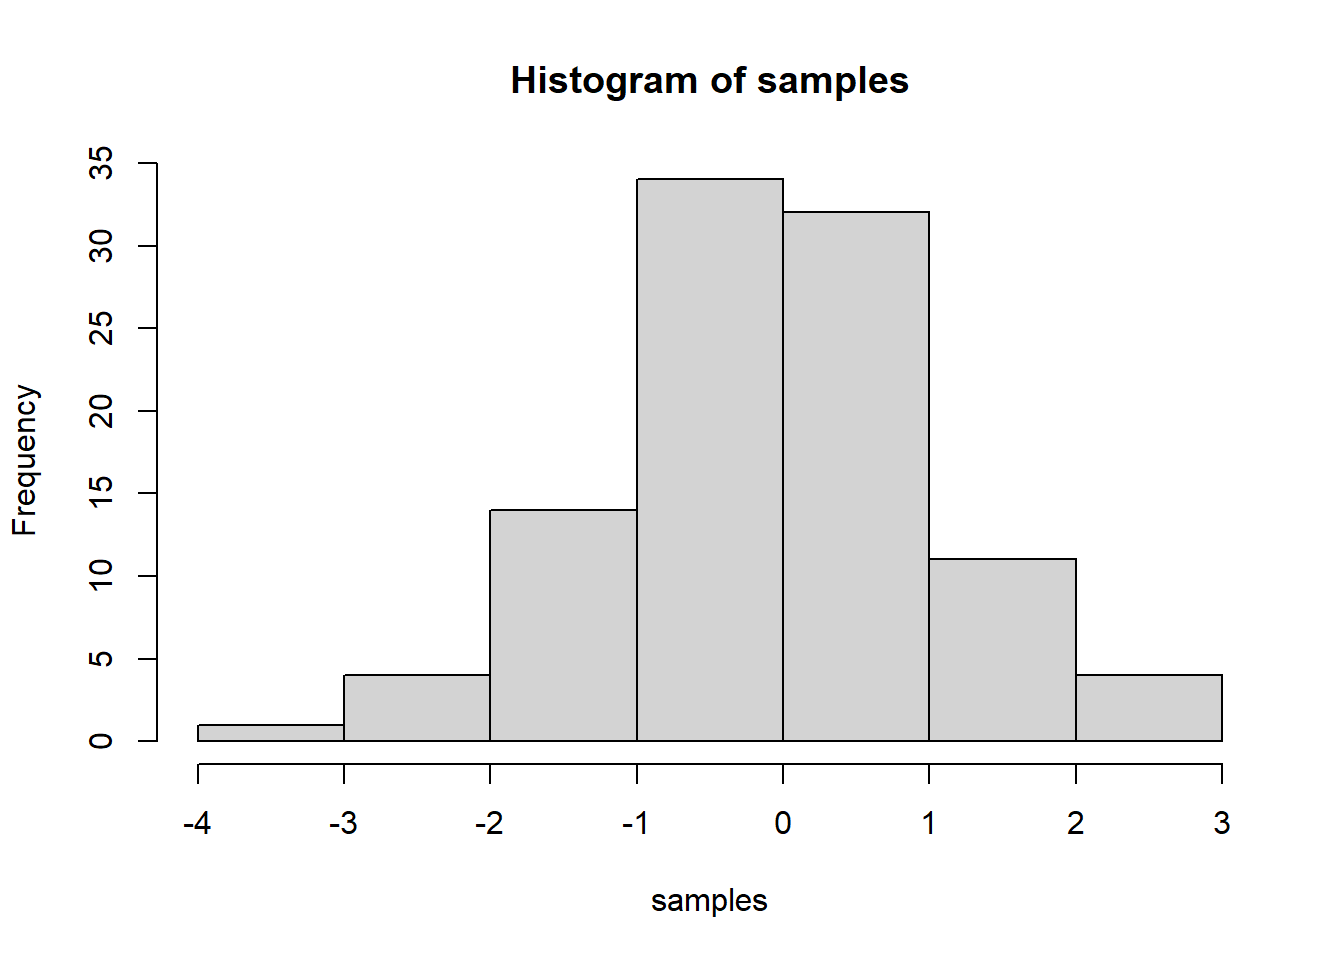
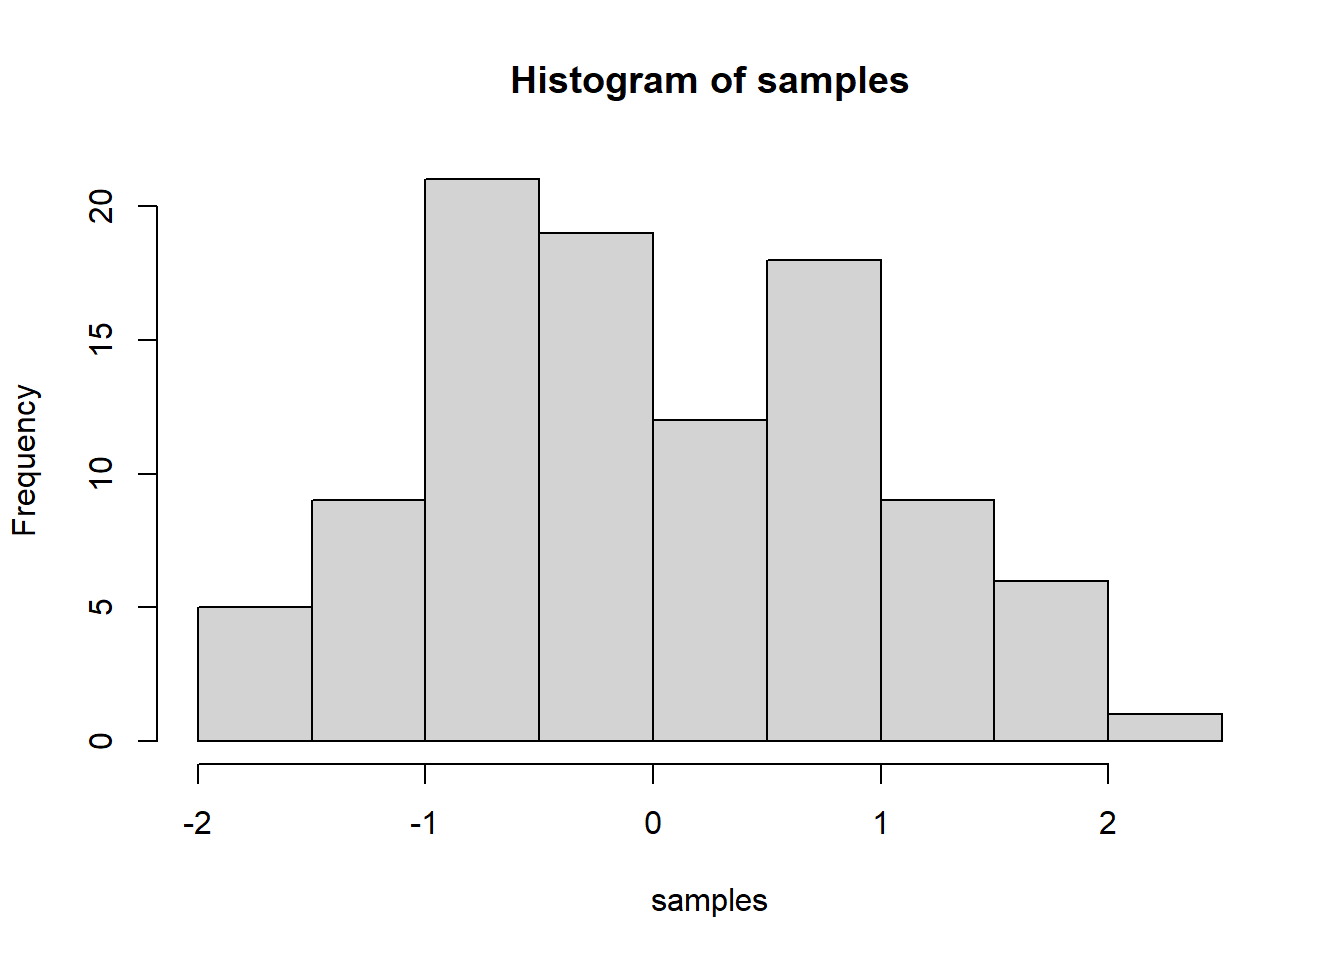
z

diff --git a/docs/journal.html b/docs/journal.html
@@ -9,10 +9,10 @@
 <meta http-equiv="X-UA-Compatible" content="IE=EDGE" />
 
 
-<meta name="author" content="Joschka Schwarz" />
+<meta name="author" content="Jader Santana" />
 
 
-<title>ggplot Graphs</title>
+<title>Journal (reproducible report)</title>
 
 <script src="site_libs/jquery-1.11.3/jquery.min.js"></script>
 <meta name="viewport" content="width=device-width, initial-scale=1" />
@@ -20,6 +20,9 @@
 <script src="site_libs/bootstrap-3.3.5/js/bootstrap.min.js"></script>
 <script src="site_libs/bootstrap-3.3.5/shim/html5shiv.min.js"></script>
 <script src="site_libs/bootstrap-3.3.5/shim/respond.min.js"></script>
+<script src="site_libs/jqueryui-1.11.4/jquery-ui.min.js"></script>
+<link href="site_libs/tocify-1.9.1/jquery.tocify.css" rel="stylesheet" />
+<script src="site_libs/tocify-1.9.1/jquery.tocify.js"></script>
 <script src="site_libs/navigation-1.1/tabsets.js"></script>
 <link href="site_libs/highlightjs-9.12.0/default.css" rel="stylesheet" />
 <script src="site_libs/highlightjs-9.12.0/highlight.js"></script>
@@ -261,6 +264,69 @@ $(document).ready(function () {
 
 
 
+<style type="text/css">
+
+#TOC {
+  margin: 25px 0px 20px 0px;
+}
+@media (max-width: 768px) {
+#TOC {
+  position: relative;
+  width: 100%;
+}
+}
+
+@media print {
+.toc-content {
+  /* see https://github.com/w3c/csswg-drafts/issues/4434 */
+  float: right;
+}
+}
+
+.toc-content {
+  padding-left: 30px;
+  padding-right: 40px;
+}
+
+div.main-container {
+  max-width: 1200px;
+}
+
+div.tocify {
+  width: 20%;
+  max-width: 260px;
+  max-height: 85%;
+}
+
+@media (min-width: 768px) and (max-width: 991px) {
+  div.tocify {
+    width: 25%;
+  }
+}
+
+@media (max-width: 767px) {
+  div.tocify {
+    width: 100%;
+    max-width: none;
+  }
+}
+
+.tocify ul, .tocify li {
+  line-height: 20px;
+}
+
+.tocify-subheader .tocify-item {
+  font-size: 0.90em;
+}
+
+.tocify .list-group-item {
+  border-radius: 0px;
+}
+
+
+</style>
+
+
 
 </head>
 
@@ -268,6 +334,16 @@ $(document).ready(function () {
 
 
 <div class="container-fluid main-container">
+
+
+<!-- setup 3col/9col grid for toc_float and main content  -->
+<div class="row-fluid">
+<div class="col-xs-12 col-sm-4 col-md-3">
+<div id="TOC" class="tocify">
+</div>
+</div>
+
+<div class="toc-content col-xs-12 col-sm-8 col-md-9">
 
 
 
@@ -326,53 +402,47 @@ $(document).ready(function () {
 
 
 
-<h1 class="title toc-ignore">ggplot Graphs</h1>
-<h4 class="author">Joschka Schwarz</h4>
-<h4 class="date">Nov 5, 2020</h4>
+<h1 class="title toc-ignore">Journal (reproducible report)</h1>
+<h4 class="author">Jader Santana</h4>
+<h4 class="date">2020-11-23…2….2…33</h4>
 
 </div>
 
 
-<p>The following code chunks will only print something, if you’ve installed the package <code>ggplot2</code>.</p>
-<p>Install it by running:</p>
-<pre class="r"><code>install.packages(&quot;ggplot2&quot;)</code></pre>
-<p>After installing it, you can remove the <code>if</code> conditions in the next code chunks.</p>
-<pre class="r"><code>if (&quot;ggplot2&quot; %in% rownames(installed.packages())) {
-  
-  # Laod plotting library
-  library(ggplot2)
-
-  # Print data
-  mpg
-  
-  }</code></pre>
-<pre><code>## # A tibble: 234 x 11
-##    manufacturer model    displ  year   cyl trans   drv     cty   hwy fl    class
-##    &lt;chr&gt;        &lt;chr&gt;    &lt;dbl&gt; &lt;int&gt; &lt;int&gt; &lt;chr&gt;   &lt;chr&gt; &lt;int&gt; &lt;int&gt; &lt;chr&gt; &lt;chr&gt;
-##  1 audi         a4         1.8  1999     4 auto(l~ f        18    29 p     comp~
-##  2 audi         a4         1.8  1999     4 manual~ f        21    29 p     comp~
-##  3 audi         a4         2    2008     4 manual~ f        20    31 p     comp~
-##  4 audi         a4         2    2008     4 auto(a~ f        21    30 p     comp~
-##  5 audi         a4         2.8  1999     6 auto(l~ f        16    26 p     comp~
-##  6 audi         a4         2.8  1999     6 manual~ f        18    26 p     comp~
-##  7 audi         a4         3.1  2008     6 auto(a~ f        18    27 p     comp~
-##  8 audi         a4 quat~   1.8  1999     4 manual~ 4        18    26 p     comp~
-##  9 audi         a4 quat~   1.8  1999     4 auto(l~ 4        16    25 p     comp~
-## 10 audi         a4 quat~   2    2008     4 manual~ 4        20    28 p     comp~
-## # ... with 224 more rows</code></pre>
-<pre class="r"><code>if (&quot;ggplot2&quot; %in% rownames(installed.packages())) {
-  
-ggplot(data = mpg, mapping = aes(x = displ, y = hwy)) + 
-  geom_point(mapping = aes(color = class)) + 
-  geom_smooth()
-  
-}</code></pre>
-<pre><code>## `geom_smooth()` using method = &#39;loess&#39; and formula &#39;y ~ x&#39;</code></pre>
-<p><img src="ggplot_graphs_files/figure-html/unnamed-chunk-3-1.png" width="672" /></p>
-<p>…</p>
+<p><strong>IMPORTANT:</strong> You can delete everything in here and start fresh. You might want to start by not deleting anything above this line until you know what that stuff is doing.</p>
+<p>This is an <code>.Rmd</code> file. It is plain text with special features. Any time you write just like this, it will be compiled to normal text in the website. If you put a # in front of your text, it will create a top level-header.</p>
+<div id="my-first-post" class="section level1">
+<h1><span class="header-section-number">1</span> My first post</h1>
+<p>Last compiled: 2020-11-23</p>
+<p>Notice that whatever you define as a top level header, automatically gets put into the table of contents bar on the left.</p>
+<div id="second-level-header" class="section level2">
+<h2><span class="header-section-number">1.1</span> Second level header</h2>
+<p>You can add more headers by adding more hashtags. These won’t be put into the table of contents</p>
+<div id="third-level-header" class="section level3">
+<h3><span class="header-section-number">1.1.1</span> third level header</h3>
+<p>Here’s an even lower level header</p>
+</div>
+</div>
+</div>
+<div id="my-second-post-note-the-order" class="section level1">
+<h1><span class="header-section-number">2</span> My second post (note the order)</h1>
+<p>Last compiled: 2020-11-23</p>
+<p>I’m writing this tutorial going from the top down. And, this is how it will be printed. So, notice the second post is second in the list. If you want your most recent post to be at the top, then make a new post starting at the top. If you want the oldest first, do, then keep adding to the bottom</p>
+</div>
+<div id="adding-r-stuff" class="section level1">
+<h1><span class="header-section-number">3</span> Adding R stuff</h1>
+<p>So far this is just a blog where you can write in plain text and serve your writing to a webpage. One of the main purposes of this lab journal is to record your progress learning R. The reason I am asking you to use this process is because you can both make a website, and a lab journal, and learn R all in R-studio. This makes everything really convenient and in the same place.</p>
+<p>So, let’s say you are learning how to make a histogram in R. For example, maybe you want to sample 100 numbers from a normal distribution with mean = 0, and standard deviation = 1, and then you want to plot a histogram. You can do this right here by using an r code block, like this:</p>
+<pre class="r"><code>samples &lt;- rnorm(100, mean=0, sd=1)
+hist(samples)</code></pre>
+<p><img src="journal_files/figure-html/unnamed-chunk-1-1.png" width="672" /></p>
+<p>When you knit this R Markdown document, you will see that the histogram is printed to the page, along with the R code. This document can be set up to hide the R code in the webpage, just delete the comment (hashtag) from the cold folding option in the yaml header up top. For purposes of letting yourself see the code, and me see the code, best to keep it the way that it is. You’ll learn that all of these things and more can be customized in each R code block.</p>
+</div>
 
 
 
+</div>
+</div>
 
 </div>
 
@@ -405,6 +475,32 @@ $(document).ready(function () {
 
 <!-- code folding -->
 
+<script>
+$(document).ready(function ()  {
+
+    // move toc-ignore selectors from section div to header
+    $('div.section.toc-ignore')
+        .removeClass('toc-ignore')
+        .children('h1,h2,h3,h4,h5').addClass('toc-ignore');
+
+    // establish options
+    var options = {
+      selectors: "h1,h2,h3",
+      theme: "bootstrap3",
+      context: '.toc-content',
+      hashGenerator: function (text) {
+        return text.replace(/[.\\/?&!#<>]/g, '').replace(/\s/g, '_');
+      },
+      ignoreSelector: ".toc-ignore",
+      scrollTo: 0
+    };
+    options.showAndHide = true;
+    options.smoothScroll = true;
+
+    // tocify
+    var toc = $("#TOC").tocify(options).data("toc-tocify");
+});
+</script>
 
 <!-- dynamically load mathjax for compatibility with self-contained -->
 <script>

diff --git a/docs/dictionary.html b/docs/dictionary.html
@@ -439,11 +439,14 @@ div.tocify {
 <li><code>list.files()</code> This function lists all the names of each file in a given R project.</li>
 </ol>
 <pre class="r"><code>list.files()</code></pre>
-<pre><code>##  [1] &quot;_site.yml&quot;                 &quot;build_website.R&quot;           &quot;data_wrangling.html&quot;       &quot;data_wrangling.Rmd&quot;       
-##  [5] &quot;dictionary.Rmd&quot;            &quot;docs&quot;                      &quot;ggplot_graphs.Rmd&quot;         &quot;images&quot;                   
-##  [9] &quot;index.Rmd&quot;                 &quot;journal.Rmd&quot;               &quot;journal_cache&quot;             &quot;journal_files&quot;            
-## [13] &quot;lab_journal_website.Rproj&quot; &quot;links.Rmd&quot;                 &quot;machine_learning.Rmd&quot;      &quot;README.md&quot;                
-## [17] &quot;site_libs&quot;                 &quot;style.css&quot;                 &quot;testfile.rds&quot;</code></pre>
+<pre><code>##  [1] &quot;_site.yml&quot;                 &quot;build_website.R&quot;          
+##  [3] &quot;data_wrangling.html&quot;       &quot;data_wrangling.Rmd&quot;       
+##  [5] &quot;dictionary.Rmd&quot;            &quot;ggplot_graphs.Rmd&quot;        
+##  [7] &quot;images&quot;                    &quot;index.Rmd&quot;                
+##  [9] &quot;journal.Rmd&quot;               &quot;lab_journal_website.Rproj&quot;
+## [11] &quot;links.Rmd&quot;                 &quot;machine_learning.Rmd&quot;     
+## [13] &quot;README.md&quot;                 &quot;site_libs&quot;                
+## [15] &quot;style.css&quot;                 &quot;testfile.rds&quot;</code></pre>
 <p>…</p>
 <hr />
 </div>
